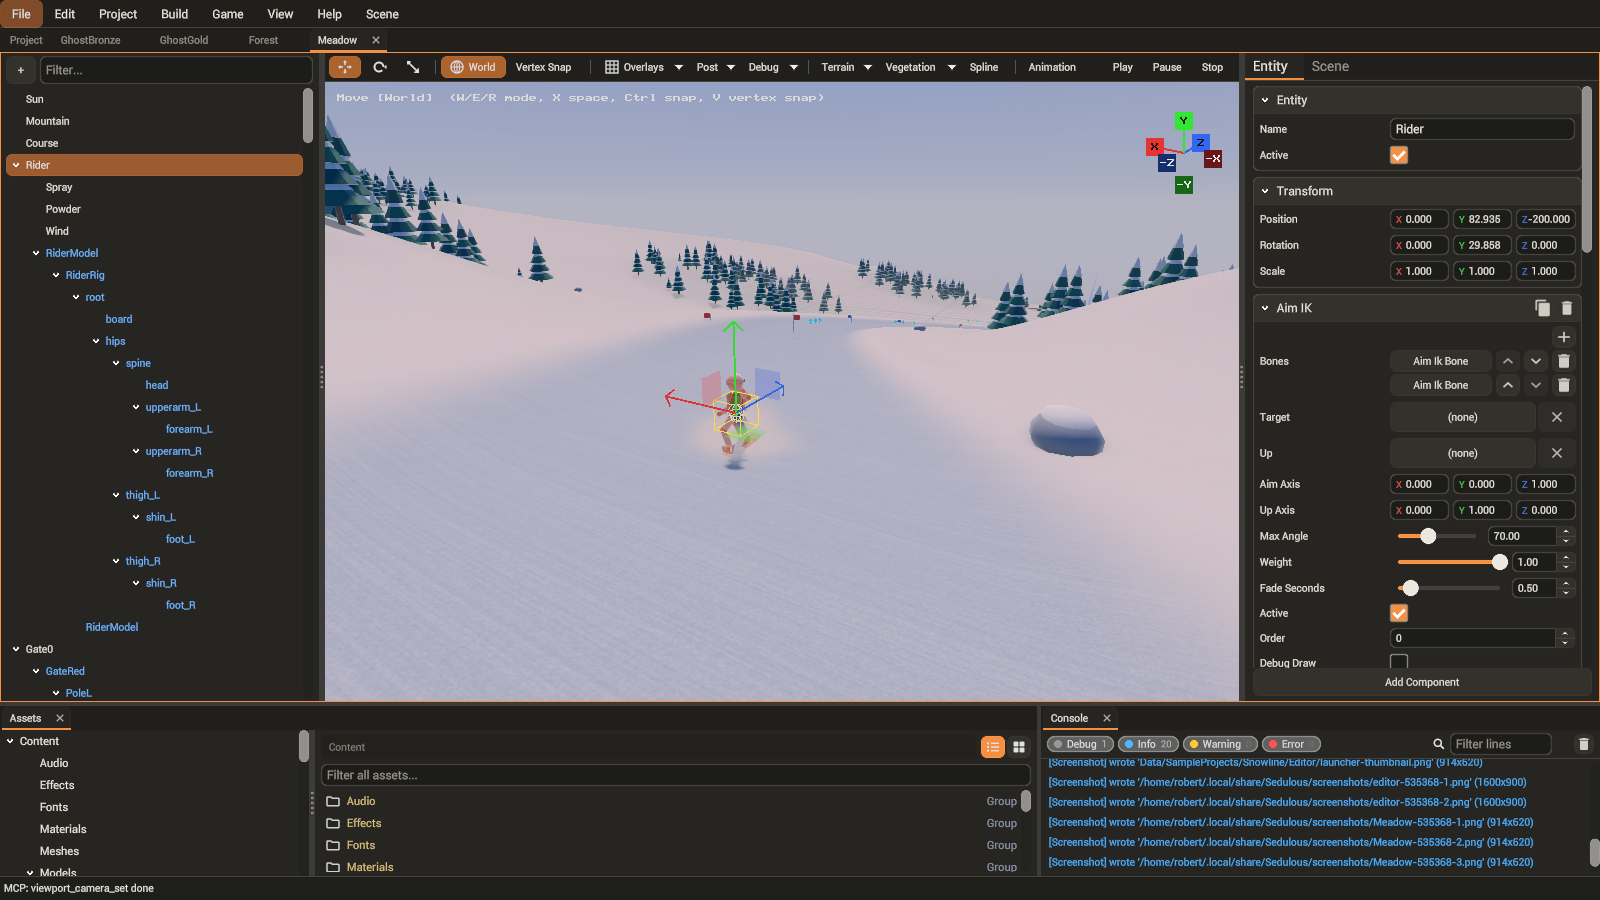
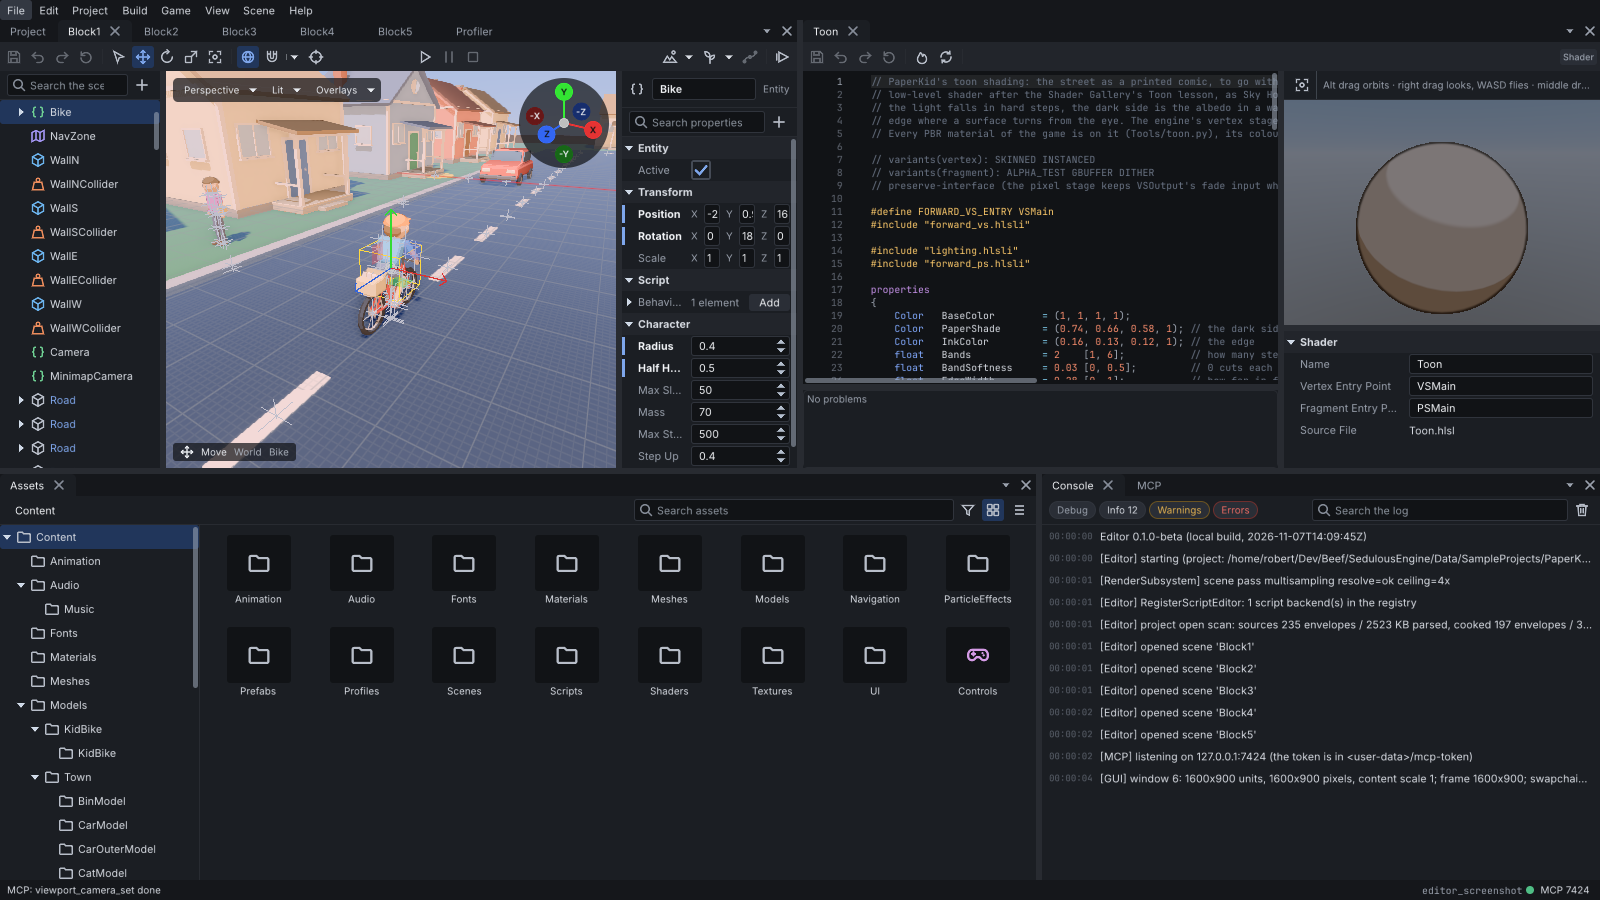
Docs: a shorter README with a download section, and the editor's picture retaken
The README described the engine at length and still showed the editor
from before the move to the GUI framework. It now opens with what the
engine is, a release badge and the new picture, lists the features one
line each (each checked against the tree), says where releases and the
sample games are, and keeps the samples described by what they show.
Building moved to Documentation/BUILDING.md, unchanged in substance.

The picture is PaperKid's first block in the current editor with the
kid on the bike selected, so the inspector shows the character, beside
the toon shader's page with its preview, the assets and the console.

diff --git a/README.md b/README.md
@@ -7,122 +7,85 @@
 
 [![Discord](https://img.shields.io/badge/Discord-Join-5865F2?logo=discord&logoColor=white)](https://discord.gg/WSvxW8mWH5)
 [![License: MIT](https://img.shields.io/badge/License-MIT-yellow.svg)](LICENSE)
+[![Release](https://img.shields.io/github/v/release/SedulousWorks/SedulousEngine?include_prereleases&label=Release)](https://github.com/SedulousWorks/SedulousEngine/releases)
 
-A game engine written in [Beef](https://www.beeflang.org/), with the editor, asset pipeline and
-tools to take a game from first scene to shipped build: a project made in the editor exports to a
-desktop player, to the browser (WebGPU through emscripten) and to the Steam Deck. Underneath are a
-layered runtime over an abstract RHI with Vulkan, Direct3D 12 and WebGPU backends; a render graph
-driving forward PBR with shadows, image-based lighting and a full post stack; physics, navigation,
-audio, skeletal animation with graphs and IK, terrain and vegetation; gameplay scripting in
-AngelScript; and a CSS styled UI framework.
-
-It is built to be worked by agents as well as people. An MCP host exposes the engine's reflection,
-its script API, project operations and play in editor, and the three sample games in this
-repository were each built and playtested through those tools, then shipped to the web
-([SedulousDemos](https://sedulousworks.github.io/SedulousDemos/)).
+A game engine and editor written in [Beef](https://www.beeflang.org/). It provides a
+complete game development ecosystem, combining an integrated editor, asset pipeline, runtime and
+toolchain with advanced rendering, gameplay scripting and a CSS styled UI framework. Games made in
+the editor export to a desktop player, to the browser (WebGPU through emscripten) and to the Steam
+Deck. Its agentic workflow, through an MCP host, enables AI agents to build entire games, from
+initial project setup to fully playable experiences.
 
 This is the second iteration of the engine. The previous one continues on the `v0` branch;
 [Documentation/Changes.md](Documentation/Changes.md) shows what changed between the two.
 
-![Sedulous Editor](Documentation/Images/Editor.png)
+![The editor](Documentation/Images/Editor.png)
 
-## What is here
+## Features
 
-**Rendering.** A render graph over the RHI: forward PBR with a depth prepass and clustered
-lights; cascaded sun shadows and shadowed point and spot lights; image-based lighting and
-reflection probes; decals, sprites, particles, skinned and instanced meshes, terrain and
-vegetation; render textures for in-game cameras; and a post stack with ambient occlusion, SSR,
-screen-space GI, bloom, TAA, MSAA, FXAA, auto exposure and colour grading. A game's look is set
-once in shared environment and post profiles. Backends for Vulkan 1.3, D3D12 and WebGPU
-(wgpu-native on the desktop, the browser's own in a wasm build). Shaders are HLSL, compiled
-through DXC, cross compiled to WGSL for the web, and cooked into packs.
+- **Written in Beef:** the runtime, the editor and the tools are one Beef workspace, over Beef
+  bindings for the native libraries they use.
+- **Rendering hardware interface (RHI)** with Vulkan 1.3, Direct3D 12 and WebGPU (desktop through
+  wgpu-native, and the browser) backends.
+- **Renderer:** a render graph driving forward PBR with a depth prepass and clustered lights;
+  cascaded sun shadows and shadowed point and spot lights; image-based lighting and reflection
+  probes; decals, sprites, particles, skinned and instanced meshes; render textures for in-game
+  cameras.
+- **Post-processing:** ambient occlusion, SSR, screen-space GI, bloom, TAA, MSAA, FXAA, auto
+  exposure and colour grading. A game sets them in shared environment and post profiles.
+- **Shaders:** HLSL compiled through DXC, cross-compiled to WGSL for the web, cooked into packs,
+  and custom shaders per project.
+- **Scene system:** entities with hierarchical transforms, component managers per domain,
+  prefabs with overrides, and scene serialization.
+- **Gameplay systems:** physics (Jolt), navigation (Recast/Detour), audio (miniaudio, four fixed
+  buses plus custom ones with effect chains), input maps, save data, splines, terrain and
+  vegetation.
+- **Animation:** skeletal clips, animation graphs, IK, root motion and property animation.
+- **Networking** with state replication.
+- **Scripting** in AngelScript over a generated binding of the engine's `[Scriptable]` surface:
+  behaviours per entity, a level script per scene and a game script per run, with coroutines,
+  events and an in-editor debugger.
+- **UI:** a retained-mode GUI with flex, grid and stack layouts, `.xml` markup, CSS sheets
+  (cascade, variables, transitions, animations, media queries), shaped bidirectional text,
+  keyboard and gamepad navigation, data binding, world-space UI, a game kit for screens and
+  prompts, and an editor toolkit (docking, property grids, a code editor). Scripts can create and
+  control any widget.
+- **Vector graphics and fonts:** a vector graphics layer with SVG, and distance field and
+  coverage fonts.
+- **Editor** (`Sedulous.Tools.Editor`): project manager, scene hierarchy, viewport with gizmos and
+  per-domain tools (terrain sculpting and painting, vegetation, splines), inspectors from
+  reflection, an asset browser, undo and redo, play in editor (several instances side by side), a
+  profiler, and a page per asset type.
+- **Asset pipeline:** importers for glTF, FBX, OBJ, images, audio and fonts; cooks per asset
+  type; BC7 and ASTC texture compression.
+- **Export** to the desktop player, the web (WebAssembly with WebGPU) and the Steam Deck, from
+  per-target presets and player templates. Headless tools can run all of it from the command
+  line.
+- **Agent tooling:** an MCP host (`Sedulous.Tools.Mcp`) exposes the engine's reflection, the
+  script API and project operations (import, cook, scene validation, export, health checks). The
+  editor serves the same tools over HTTP for its open project, plus its pages and play in editor,
+  where an agent plays the game with scripted input and reads back probes and screenshots.
+  [AGENTS.md](AGENTS.md) describes how an agent works on the engine itself.
+- **Samples:** five sample games, a custom shaders gallery and a native plugin sample (below),
+  and low-level Beef samples per engine area ([Code/Samples/README.md](Code/Samples/README.md)).
 
-**Scene and engine.** Entities with hierarchical transforms, component managers per domain,
-prefabs with overrides, scene serialization, and the subsystems a game needs: physics
-(Jolt), navigation (Recast/Detour), audio (miniaudio, four fixed buses plus custom ones with
-effect chains), animation (skeletal clips, animation graphs, IK, root motion, property
-animation), particles, splines, terrain and vegetation, input maps, save data, networking with
-state replication, and world space UI.
+## Download
 
-**Scripting.** Gameplay code is AngelScript over a generated binding of the engine's
-`[Scriptable]` surface: behaviours per entity, a level script per scene, a game script per run,
-coroutines and events, with a debugger in the editor. See
-[Documentation/Shipping/Scripting.md](Documentation/Shipping/Scripting.md).
-
-**Editor.** A project manager, scene hierarchy, a viewport with gizmos and per domain tools
-(terrain sculpting and painting, vegetation, spline editing), inspectors generated at compile
-time from the component types, an asset browser over the import and cook pipeline, undo and
-redo, play in editor (several instances side by side), and a page per asset type: materials,
-meshes, textures, fonts, audio, animation clips and graphs, particles, input maps, UI documents
-and themes, render profiles, and scripts.
-
-**Pipeline and shipping.** Importers (glTF, FBX and OBJ, images, audio, fonts), cooks per
-asset type, texture compression (BC7, ASTC), and an export that packages a project for the
-desktop player, the web or the Steam Deck from per target presets and player templates; headless
-tools do all of it from the command line.
-
-**UI.** A retained-mode GUI with flex, grid and stack layouts, `.xml` markup and CSS sheets
-with a cascade, variables, transitions, animations and media queries, shaped and bidirectional
-text, keyboard and gamepad navigation, data binding, a game kit (screens and prompts), a vector
-graphics layer with SVG, distance field and coverage fonts, and an editor toolkit (docking,
-property grids, a code editor), every widget reachable from scripts.
-
-**Agent tooling.** An MCP host (`Sedulous.Tools.Mcp`) exposes the engine's reflection, the
-script API and project operations (import, cook, scene validation, export, health checks); the
-editor serves the same tools over HTTP for its open project, plus its pages and play in editor,
-where an agent plays the game with scripted input and reads back probes and screenshots.
-[AGENTS.md](AGENTS.md) is how an agent works on the engine itself.
+Releases and the sample games are on the
+[releases page](https://github.com/SedulousWorks/SedulousEngine/releases). The editor's project
+manager downloads the samples from the release of its own version.
 
 ## Building
 
-Requirements:
-
-- A recent [Beef nightly](https://nightly.beeflang.org/index.html), for BeefBuild and the IDE.
-  Upstream is sufficient; the `working` branch of [our fork](https://github.com/jayrulez/Beef)
-  carries the compiler fixes we have contributed that are still in review, none of which the
-  engine depends on.
-- Linux x64 or Windows x64. Prebuilt native libraries for both are in the tree under
-  `Dependencies/*/dist`, except SDL3 on Linux, which links the system's: install SDL 3.4
-  (`libsdl3-dev` or your distribution's equivalent). The dependencies built from source carry a
-  `build-native.sh` / `build-native.ps1` to rebuild them.
-- A Vulkan 1.3 or D3D12 capable GPU to run anything that draws.
-- For web builds, [emsdk](https://emscripten.org/) on the path.
-
-Everything is one Beef workspace under `Code/`:
-
-```
-cd Code
-BeefBuild -project=Samples.HelloWindow          # the smallest sample
-BeefBuild -project=Sedulous.Tools.Editor         # the editor
-BeefBuild -project=Samples.Sandbox               # the engine sandbox
-BeefBuild -test -project=Sedulous.Core.Tests     # one test project
-```
-
-Outputs land in `Code/build/<Config>_<Platform>/<Project>/`. Executables find the engine's
-data by walking up to the `.dataroot` marker in `Data/`, so they run from the build
-directory, the project directory or the repository root alike.
-
-Running the editor:
-
-```
-Code/build/Debug_Linux64/Sedulous.Tools.Editor/Sedulous.Tools.Editor            # project manager
-Code/build/Debug_Linux64/Sedulous.Tools.Editor/Sedulous.Tools.Editor <projectDir>  # open a project
-```
-
-Add `--mcp` to serve the project to an agent over MCP while you work in the editor.
-
-The editor is on the GUI: its shell (the dock, menus, project manager, assets browser and
-dialogs), the scene page, the Game tab, the asset pages and the Profiler page. The old editor on
-Sedulous.UI is gone; it last builds at commit e293ee1f. `Sedulous.Tools.Mcp` serves MCP without
-the editor. The old UI framework and its UISandbox stay under `Code/Deprecated/UI`, disabled in
-every build config.
+See [Documentation/BUILDING.md](Documentation/BUILDING.md) for the requirements, the build
+commands and how to run the editor.
 
 ## Sample projects
 
-Game projects under `Data/SampleProjects/`, opened from the editor's project manager. Each
-was built entirely through the engine's MCP tools by an AI agent, its authoring scripts kept in
-its `Tools/`, and each plays in the browser on
-[SedulousDemos](https://sedulousworks.github.io/SedulousDemos/), Masquerade not yet.
+Game projects under `Data/SampleProjects/`, opened from the editor's project manager. Each was
+built through the engine's MCP tools by an AI agent, its authoring scripts kept in its `Tools/`.
+[SedulousDemos](https://sedulousworks.github.io/SedulousDemos/) plays the games and the Shader
+Gallery in a browser, Masquerade not yet.
 
 **Sky Hopper** (`SkyHopper`) is a small 3D platformer, also shipped to a Steam Deck: five
 floating islands, coins, enemies and hazards, menus with volume settings, music and effects,
@@ -194,7 +157,7 @@ four parts (runtime, pipeline, tooling and editor), built into the project's own
 
 ```
 Code/
-  Foundation/     Core, RHI and backends, Shell, Resource, VFS, Scene, Render, UI, VG,
+  Foundation/     Core, RHI and backends, Shell, Resource, VFS, Scene, Render, GUI, VG,
                   Fonts, Audio, Physics, Navigation, Net, Script, Shaders, ...
   Engine/         The subsystems over Foundation, the default application, the player
   Pipeline/       Importers and cooks per asset type, the export
@@ -209,16 +172,16 @@ Documentation/    Shipping documentation, served to agents through the MCP host
 ```
 
 Each Foundation and Engine module has a sibling `.Tests` project; `Integration/` holds the
-flows that cross collections. [Code/Samples/README.md](Code/Samples/README.md) describes every
-sample.
+flows that cross collections.
 
 ## Platform support
 
-Linux and Windows are the development platforms, on Vulkan and D3D12. WebGPU runs on the
-desktop through wgpu-native and in the browser through a wasm build, which the export packages
-a game for.
-A Steam Deck player builds in a container (`Code/Tools/SteamDeck/`), and the export packages a
-game for it. macOS has no backend yet.
+- **Linux and Windows:** the development platforms, on Vulkan and D3D12; the editor and the
+  player run on both. WebGPU also runs on the desktop through wgpu-native.
+- **Web:** games export to the browser as WebAssembly with WebGPU.
+- **Steam Deck:** games export through a Deck player template, built in a container by
+  `Code/Tools/SteamDeck/build-steamdeck.sh`.
+- **macOS:** no backend yet.
 
 ## Dependencies
 
@@ -226,7 +189,7 @@ Beef bindings, vendored under `Dependencies/`: Bulkan (Vulkan), Win32-Beef (D3D1
 DXGI), wgpu-Beef, SDL3, Dxc-Beef, joltc-Beef, recastnavigation-Beef,
 miniaudio (with stb_vorbis for Ogg), AngelScript-Beef, cgltf and ufbx, meshoptimizer,
 msdfgen, stb_image and stb_truetype, HarfBuzz, SheenBidi, astcenc, bc7enc and bcdec, Mbed TLS,
-cimgui. Each keeps its licence beside it, and those that ship in a binary are gathered into
+zlib, cimgui. Each keeps its licence beside it, and those that ship in a binary are gathered into
 `Dependencies/THIRD-PARTY-NOTICES.txt`, beside every player, editor and export.
 
 ## Community

diff --git a/Documentation/BUILDING.md b/Documentation/BUILDING.md
@@ -1,0 +1,47 @@
+# Building Sedulous
+
+## Requirements
+
+- A recent [Beef nightly](https://nightly.beeflang.org/index.html), for BeefBuild and the IDE.
+  Upstream is sufficient; the `working` branch of [our fork](https://github.com/jayrulez/Beef)
+  carries the compiler fixes we have contributed that are still in review, none of which the
+  engine depends on.
+- Linux x64 or Windows x64. Prebuilt native libraries for both are in the tree under
+  `Dependencies/*/dist`, except SDL3 on Linux, which links the system's: install SDL 3.4
+  (`libsdl3-dev` or your distribution's equivalent). The dependencies built from source carry a
+  `build-native.sh` / `build-native.ps1` to rebuild them.
+- A Vulkan 1.3 or D3D12 capable GPU to run anything that draws.
+- For web builds, [emsdk](https://emscripten.org/) on the path.
+
+## Building
+
+Everything is one Beef workspace under `Code/`:
+
+```
+cd Code
+BeefBuild -project=Samples.HelloWindow          # the smallest sample
+BeefBuild -project=Sedulous.Tools.Editor         # the editor
+BeefBuild -project=Samples.Sandbox               # the engine sandbox
+BeefBuild -test -project=Sedulous.Core.Tests     # one test project
+```
+
+Outputs land in `Code/build/<Config>_<Platform>/<Project>/`. Executables find the engine's data
+by walking up to the `.dataroot` marker in `Data/`, so they run from the build directory, the
+project directory or the repository root alike.
+
+## Running the editor
+
+```
+Code/build/Debug_Linux64/Sedulous.Tools.Editor/Sedulous.Tools.Editor               # project manager
+Code/build/Debug_Linux64/Sedulous.Tools.Editor/Sedulous.Tools.Editor <projectDir>  # open a project
+```
+
+Add `--mcp` to serve the project to an agent over MCP while you work in the editor.
+`Sedulous.Tools.Mcp` serves MCP without the editor.
+
+## The old editor and UI
+
+The editor is on the GUI: its shell (the dock, menus, project manager, assets browser and
+dialogs), the scene page, the Game tab, the asset pages and the Profiler page. The old editor on
+Sedulous.UI is gone; it last builds at commit e293ee1f. The old UI framework and its UISandbox stay
+under `Code/Deprecated/UI`, disabled in every build config.

diff --git a/Documentation/Backlog.md b/Documentation/Backlog.md
@@ -22,7 +22,7 @@ Suggested order: B, then C when rebinding or prompts are a goal. It also decides
 B (circle) closes Sky Hopper's settings menu. Waiting on the Raptor port settling.
 
 ### The Beef requirement wording
-The README and `AGENTS.md` say upstream Beef is sufficient. The engine needs the fork's
+`Documentation/BUILDING.md` and `AGENTS.md` say upstream Beef is sufficient. The engine needs the fork's
 `working` branch again: `fix/interface-slots-past-incomplete-base` (a type's interfaces were
 slotted over `IHashable` when a base further up was mid rebuild; `PhysicsWorld` static geometry
 depends on it) is pushed and awaiting its upstream PR. Reword once it merges, or say so now.
